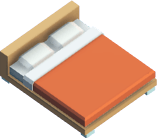
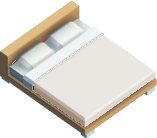
- NEW: more assets added from Kenny's Assets furniture kit (thank you kenny)

diff --git a/frontend/src/components/IsoItems.jsx b/frontend/src/components/IsoItems.jsx
@@ -1,12 +1,15 @@
 import { TILE_H, TILE_W, project, isoBox, floorPatch } from "../lib/iso";
-import bedSW from "../assets/kenney/bedDouble_SW.png";
-import bedSE from "../assets/kenney/bedDouble_SE.png";
-import sofaSE from "../assets/kenney/loungeSofa_SE.png";
-import sofaSW from "../assets/kenney/loungeSofa_SW.png";
-import chairSE from "../assets/kenney/loungeChair_SE.png";
-import chairSW from "../assets/kenney/loungeChair_SW.png";
-import standSW from "../assets/kenney/cabinetBed_SW.png";
-import standSE from "../assets/kenney/cabinetBed_SE.png";
+
+// Every render in src/assets/kenney/ is imported by this one glob — adding a
+// Kenney item is "drop the PNG in the folder, add a manifest row below".
+// (eager: URLs are needed synchronously at render time; Vite inlines the
+// small ones as data URIs and hashes the rest. Anything in the folder gets
+// bundled, so keep only files a manifest row actually uses.)
+const KENNEY_URLS = import.meta.glob("../assets/kenney/*.png", {
+  eager: true,
+  import: "default",
+});
+const ken = (name) => KENNEY_URLS[`../assets/kenney/${name}.png`];
 
 // Sprites for the isometric room. Each is drawn for its footprint anchored at
 // grid (0,0) — the scene places it with translate(project(gx,gy)), which
@@ -301,59 +304,108 @@ function TintedBox({ gx, gy, dx, dy, h, fallback, dark = 0.32, mid = 0.18 }) {
 }
 
 // ---- Kenney Furniture Kit pieces (CC0, kenney.nl) ----------------------- //
-// The bed and sofa never stopped reading as stacked boxes in hand-drawn SVG
-// (user feedback, twice) — so these four items are pre-rendered isometric
-// views of real modelled furniture from a single CC0 pack (consistent theme;
-// see src/assets/kenney/LICENSE.txt), whose flat-shaded look sits well next
-// to the SVG pieces. Each PNG is tightly cropped: its width maps onto the
+// Solid furniture never stopped reading as stacked boxes in hand-drawn SVG
+// (user feedback, twice) — these items are pre-rendered isometric views of
+// real modelled furniture from a single CC0 pack (consistent theme; see
+// src/assets/kenney/LICENSE.txt), whose flat-shaded look sits well next to
+// the SVG pieces. Each PNG is tightly cropped: its width maps onto the
 // footprint diamond's screen width and its bottom edge lands on the
 // footprint's front corner. `rot` swaps to a REAL second render instead of
 // the mirror trick (lighting stays consistent) — the catalog marks these
 // `noMirror` so the scene skips scale(-1,1) and passes rot in. PNGs can't
-// take `--tint`, so they're `tintable: false`.
-function kenneySprite({ r0, r1, w0, h0, w1, h1, foot }) {
+// take `--tint`, so they're `tintable: false`; fixed recolours (the white
+// duvet) are palette-remapped into the committed PNGs instead.
+//
+// A sprite is a list of LAYERS so renders can stack (the TV on its cabinet,
+// the coffee machine on the counter). Layer fields: r0/r1 = [name, w, h]
+// per orientation, foot = the layer's own base in tiles, at = grid offset
+// within the item, lift = px raised off the floor (a parent's counter-top
+// height: its scaled render height minus its base diamond, width×0.5774 at
+// the kit's camera angle).
+function kenneySprite(layers) {
   return function KenneySprite({ rot = 0 }) {
-    const src = rot ? r1 : r0;
-    const iw = rot ? w1 : w0;
-    const ih = rot ? h1 : h0;
-    const f = rot ? [foot[1], foot[0]] : foot;
-    const width = ((f[0] + f[1]) * TILE_W) / 2;
-    const s = width / iw;
     return (
-      <image
-        href={src}
-        x={project(0, f[1]).x}
-        y={project(f[0], f[1]).y - ih * s}
-        width={width}
-        height={ih * s}
-      />
+      <g>
+        {layers.map((L, i) => {
+          const [name, iw, ih] = rot ? L.r1 : L.r0;
+          const f = rot ? [L.foot[1], L.foot[0]] : L.foot;
+          const at = L.at ? (rot ? [L.at[1], L.at[0]] : L.at) : [0, 0];
+          const width = ((f[0] + f[1]) * TILE_W) / 2;
+          const s = width / iw;
+          const o = project(at[0], at[1]);
+          return (
+            <image
+              key={i}
+              href={ken(name)}
+              x={o.x + project(0, f[1]).x}
+              y={o.y + project(f[0], f[1]).y - ih * s - (L.lift || 0)}
+              width={width}
+              height={ih * s}
+            />
+          );
+        })}
+      </g>
     );
   };
 }
 
-const Sofa = kenneySprite({
-  r0: sofaSE, w0: 104, h0: 103,
-  r1: sofaSW, w1: 103, h1: 103,
-  foot: [2, 1],
-});
-
-const Bed = kenneySprite({
-  r0: bedSW, w0: 157, h0: 138,
-  r1: bedSE, w1: 157, h1: 138,
-  foot: [2, 2.8],
-});
-
-const Armchair = kenneySprite({
-  r0: chairSE, w0: 67, h0: 77,
-  r1: chairSW, w1: 66, h1: 77,
-  foot: [1, 1],
-});
-
-const Nightstand = kenneySprite({
-  r0: standSW, w0: 36, h0: 42,
-  r1: standSE, w1: 37, h1: 42,
-  foot: [0.7, 0.7],
-});
+const Bed = kenneySprite([
+  { r0: ["bedDouble_SW", 157, 138], r1: ["bedDouble_SE", 157, 138], foot: [2, 2.8] },
+]);
+const Sofa = kenneySprite([
+  { r0: ["loungeSofa_SE", 104, 103], r1: ["loungeSofa_SW", 103, 103], foot: [2, 1] },
+]);
+const Armchair = kenneySprite([
+  { r0: ["loungeChair_SE", 67, 77], r1: ["loungeChair_SW", 66, 77], foot: [1, 1] },
+]);
+const Nightstand = kenneySprite([
+  { r0: ["cabinetBed_SW", 36, 42], r1: ["cabinetBed_SE", 37, 42], foot: [0.7, 0.7] },
+]);
+const Chair = kenneySprite([
+  { r0: ["chairRounded_SE", 31, 52], r1: ["chairRounded_SW", 31, 52], foot: [0.7, 0.7] },
+]);
+const Shelf = kenneySprite([
+  { r0: ["bookcaseOpen_SE", 50, 101], r1: ["bookcaseOpen_SW", 49, 101], foot: [1, 0.5] },
+]);
+const Bookcase = kenneySprite([
+  { r0: ["bookcaseClosedWide_SE", 80, 115], r1: ["bookcaseClosedWide_SW", 80, 116], foot: [2, 0.6] },
+]);
+const SideTable = kenneySprite([
+  { r0: ["sideTableDrawers_SW", 57, 69], r1: ["sideTableDrawers_SE", 58, 68], foot: [1.2, 0.5] },
+]);
+const Radio = kenneySprite([
+  { r0: ["radio_SE", 31, 36], r1: ["radio_SW", 30, 36], foot: [0.7, 0.25] },
+]);
+const Fridge = kenneySprite([
+  { r0: ["kitchenFridgeSmall_SW", 52, 81], r1: ["kitchenFridgeSmall_SE", 52, 81], foot: [1, 0.7] },
+]);
+const CafeTable = kenneySprite([
+  { r0: ["tableRound_SE", 83, 69], r1: ["tableRound_SW", 83, 68], foot: [1.2, 1.2] },
+]);
+const Counter = kenneySprite([
+  { r0: ["kitchenBar_SE", 49, 64], r1: ["kitchenBar_SW", 49, 64], foot: [1, 0.5] },
+]);
+// Composites: the child rides on the parent's top surface via `lift`.
+const CoffeeCounter = kenneySprite([
+  { r0: ["kitchenBar_SE", 49, 64], r1: ["kitchenBar_SW", 49, 64], foot: [1, 0.5] },
+  {
+    r0: ["kitchenCoffeeMachine_SE", 26, 32],
+    r1: ["kitchenCoffeeMachine_SW", 25, 32],
+    foot: [0.45, 0.55],
+    at: [0.25, 0],
+    lift: 26,
+  },
+]);
+const TvUnit = kenneySprite([
+  { r0: ["cabinetTelevision_SE", 80, 79], r1: ["cabinetTelevision_SW", 80, 80], foot: [2, 0.6] },
+  {
+    r0: ["televisionVintage_SE", 46, 53],
+    r1: ["televisionVintage_SW", 46, 53],
+    foot: [1, 0.65],
+    at: [0.5, 0],
+    lift: 26,
+  },
+]);
 
 function CoffeeTable() {
   const A = project(0, 0);
@@ -792,4 +844,14 @@ export const ISO_SPRITES = {
   candle: Candle,
   armchair: Armchair,
   nightstand: Nightstand,
+  chair: Chair,
+  shelf: Shelf,
+  bookcase: Bookcase,
+  sidetable: SideTable,
+  radio: Radio,
+  fridge: Fridge,
+  cafetable: CafeTable,
+  counter: Counter,
+  coffeecounter: CoffeeCounter,
+  tvunit: TvUnit,
 };

diff --git a/frontend/src/lib/isoRoom.js b/frontend/src/lib/isoRoom.js
@@ -45,6 +45,16 @@ export const ISO_ITEMS = {
   sofa: { label: "Sofa", icon: "🛋", foot: [2, 1], hitH: 42, seat: 24, tintable: false, noMirror: true },
   armchair: { label: "Armchair", icon: "💺", foot: [1, 1], hitH: 40, seat: 22, tintable: false, noMirror: true },
   nightstand: { label: "Nightstand", icon: "🗄", foot: [0.7, 0.7], hitH: 30, tintable: false, noMirror: true },
+  chair: { label: "Wooden chair", icon: "🪑", foot: [0.7, 0.7], hitH: 44, seat: 18, tintable: false, noMirror: true },
+  shelf: { label: "Open shelf", icon: "🪜", foot: [1, 0.5], hitH: 60, tintable: false, noMirror: true },
+  bookcase: { label: "Wide bookcase", icon: "📚", foot: [2, 0.6], hitH: 64, tintable: false, noMirror: true },
+  sidetable: { label: "Side table", icon: "🗃", foot: [1.2, 0.5], hitH: 34, tintable: false, noMirror: true },
+  radio: { label: "Radio", icon: "📻", foot: [0.7, 0.25], hitH: 20, tintable: false, noMirror: true },
+  fridge: { label: "Little fridge", icon: "🧊", foot: [1, 0.7], hitH: 48, tintable: false, noMirror: true },
+  cafetable: { label: "Café table", icon: "🍰", foot: [1.2, 1.2], hitH: 28, tintable: false, noMirror: true },
+  counter: { label: "Counter", icon: "🥐", foot: [1, 0.5], hitH: 32, tintable: false, noMirror: true },
+  coffeecounter: { label: "Coffee counter", icon: "🫖", foot: [1, 0.5], hitH: 44, tintable: false, noMirror: true },
+  tvunit: { label: "TV cabinet", icon: "📺", foot: [2, 0.6], hitH: 60, tintable: false, noMirror: true },
   coffeetable: { label: "Coffee table", icon: "☕", foot: [1.4, 0.9], hitH: 30 },
   bed: { label: "Bed", icon: "🛏", foot: [2, 2.8], hitH: 50, seat: 30, tintable: false, noMirror: true },
   cushion: { label: "Floor cushion", icon: "🧶", foot: [0.9, 0.9], hitH: 18, seat: 13 },
@@ -373,7 +383,7 @@ export const ISO_PRESETS = {
       // work wall: desk flush against the right wall, stool on its centre —
       // and the resident seated on it, studying (VC2-style)
       { item: "desk", gx: 3, gy: 0 },
-      { item: "stool", gx: 4, gy: 1.5 },
+      { item: "chair", gx: 4, gy: 1.5 },
       { item: "resident", gx: 4, gy: 1.5 },
       { item: "frame", gx: 1, gy: 0 },
       { item: "wallclock", gx: 4.5, gy: 0 },
@@ -414,6 +424,7 @@ export const ISO_PRESETS = {
       { item: "cat", gx: 2, gy: 5.5, tint: "#8a5a3b" },
       { item: "floorlamp", gx: 0.5, gy: 6.5 },
       // loose warmth
+      { item: "radio", gx: 3.5, gy: 6.5 },
       { item: "cushion", gx: 4, gy: 4.5, tint: "#c98a4b" },
       { item: "plant", gx: 0.5, gy: 0.5 },
       { item: "monstera", gx: 8, gy: 7 },
@@ -428,7 +439,8 @@ export const ISO_PRESETS = {
       // bed tucked into the far right corner, nightstand beside it
       { item: "bed", gx: 8, gy: 0 },
       { item: "nightstand", gx: 7, gy: 0 },
-      // back wall: record console under the shelf, aquarium beside it
+      // back wall: TV corner, record console under the shelf, aquarium
+      { item: "tvunit", gx: 0.5, gy: 0 },
       { item: "recordplayer", gx: 3, gy: 0, tint: "#4a3a5b" },
       { item: "aquarium", gx: 4.5, gy: 0 },
       { item: "wallshelf", gx: 2, gy: 0, tint: "#3a3142" },
@@ -451,22 +463,26 @@ export const ISO_PRESETS = {
     icon: "☕",
     size: { w: 10, d: 7 },
     items: [
-      // the counter row along the back wall
+      // a REAL counter row along the back wall: bar, espresso machine, bar,
+      // little fridge at the end — an actual café since the kit arrived
       { item: "bookshelf", gx: 0, gy: 0.5, rot: 1 },
-      { item: "desk", gx: 3.5, gy: 0 },
+      { item: "counter", gx: 3.5, gy: 0 },
+      { item: "coffeecounter", gx: 4.5, gy: 0 },
+      { item: "counter", gx: 5.5, gy: 0 },
+      { item: "fridge", gx: 6.5, gy: 0 },
       { item: "frame", gx: 1.5, gy: 0, tint: "#9a6a45" },
       { item: "wallclock", gx: 3, gy: 0, tint: "#6b4a39" },
       { item: "wallshelf", gx: 6.5, gy: 0, tint: "#9a6a45" },
       { item: "aquarium", gx: 8.5, gy: 0 },
-      // seating set A on the big rug: stools flank the table's centreline
+      // seating set A on the big rug: chairs flank the round table
       { item: "rug", gx: 0.5, gy: 2.5, tint: "#c98a4b" },
-      { item: "coffeetable", gx: 2, gy: 3 },
-      { item: "stool", gx: 1, gy: 3, tint: "#e8b04b" },
-      { item: "stool", gx: 3.5, gy: 3, tint: "#e8b04b" },
+      { item: "cafetable", gx: 2, gy: 3 },
+      { item: "chair", gx: 1, gy: 3 },
+      { item: "chair", gx: 3.5, gy: 3 },
       // seating set B, same geometry, shifted right and forward
-      { item: "coffeetable", gx: 6, gy: 4 },
-      { item: "stool", gx: 5, gy: 4, tint: "#d98a93" },
-      { item: "stool", gx: 7.5, gy: 4, tint: "#d98a93" },
+      { item: "cafetable", gx: 6, gy: 4 },
+      { item: "chair", gx: 5, gy: 4 },
+      { item: "chair", gx: 7.5, gy: 4 },
       // life
       { item: "floorlamp", gx: 9, gy: 2.5, tint: "#c98a4b" },
       { item: "cat", gx: 6, gy: 5.5 },

diff --git a/CLAUDE.md b/CLAUDE.md
@@ -447,14 +447,22 @@ account is auto-friended with them on creation, same as the old sign-up flow.
   grid-dragging work), sprites in `IsoItems.jsx` (drawn for a footprint at
   grid (0,0); linear projection makes them relocatable by translate), scene +
   drag engine in `IsoRoom.jsx`.
-  **Rendered-PNG sprites**: bed/sofa/armchair/nightstand are pre-rendered
-  isometric views from Kenney's Furniture Kit (CC0 — the hand-drawn SVG
-  versions never stopped reading as stacked boxes; see
-  `frontend/src/assets/kenney/LICENSE.txt`). They're `tintable: false` (no
-  CSS var reaches a PNG) and `noMirror: true`; the `kenneySprite` factory
-  maps each cropped render's width onto the footprint diamond and its
-  bottom edge onto the front corner. New Kenney items should come from the
-  SAME kit so the modelled style stays consistent.
+  **Rendered-PNG sprites**: 14 items (bed, sofa, armchair, nightstand,
+  chair, shelf, bookcase, sidetable, radio, fridge, cafetable, counter,
+  coffeecounter, tvunit) are pre-rendered isometric views from Kenney's
+  Furniture Kit (CC0 — the hand-drawn SVG versions never stopped reading as
+  stacked boxes; see `frontend/src/assets/kenney/LICENSE.txt` for the
+  file→item map). One `import.meta.glob` pulls in the whole assets/kenney
+  folder (everything there gets bundled — don't park unused renders in it);
+  each item is a manifest row of LAYERS in `IsoItems.jsx`, so renders can
+  stack (`coffeecounter` = bar + espresso machine, `tvunit` = cabinet + TV;
+  a layer's `lift` = the parent's scaled render height minus its base
+  diamond, width×0.5774 at the kit camera). All are `tintable: false` (no
+  CSS var reaches a PNG) and `noMirror: true`. Fixed recolours are done by
+  palette-remapping the committed PNGs (the bed's white duvet: remap hue
+  2–28°, sat>0.25 pixels, keep lightness order) — arbitrary live tinting
+  stays SVG-only. New Kenney items should come from the SAME kit so the
+  modelled style stays consistent.
   **Rotation** (`rot: 0|1`, the ⟳ button when selected): a screen-mirror
   `scale(-1,1)` about the sprite origin IS a grid transpose, so one drawn
   facing per item gives both orientations — `footOf(item, rot)` swaps the
